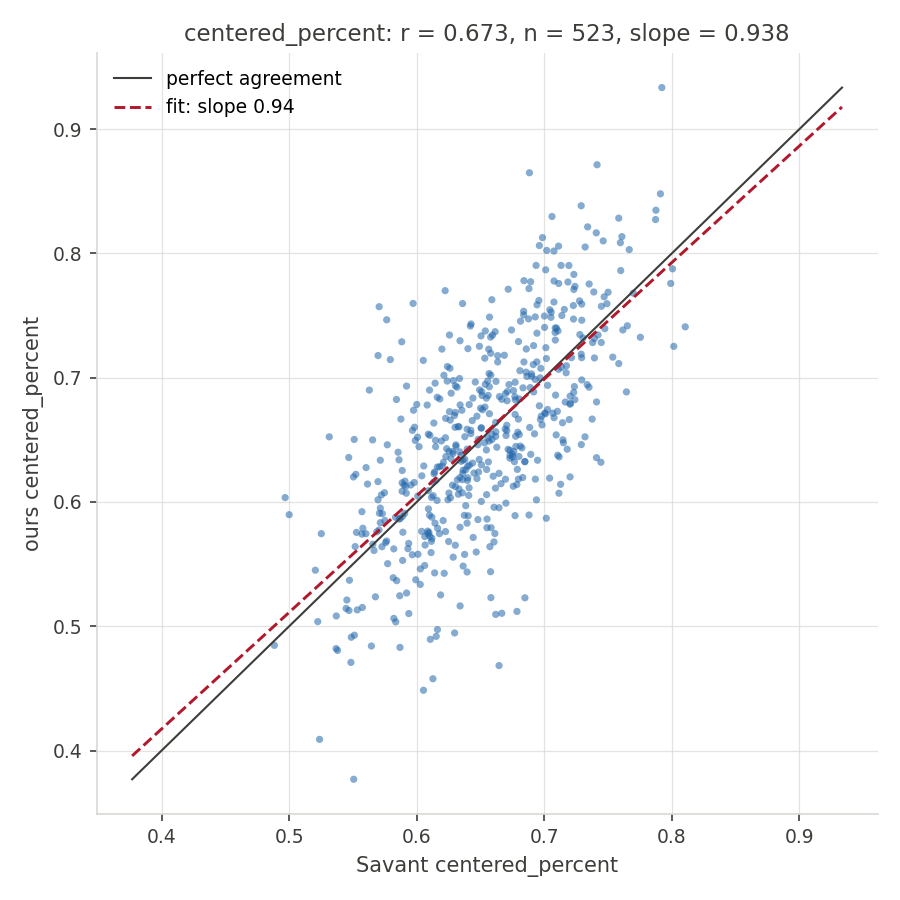
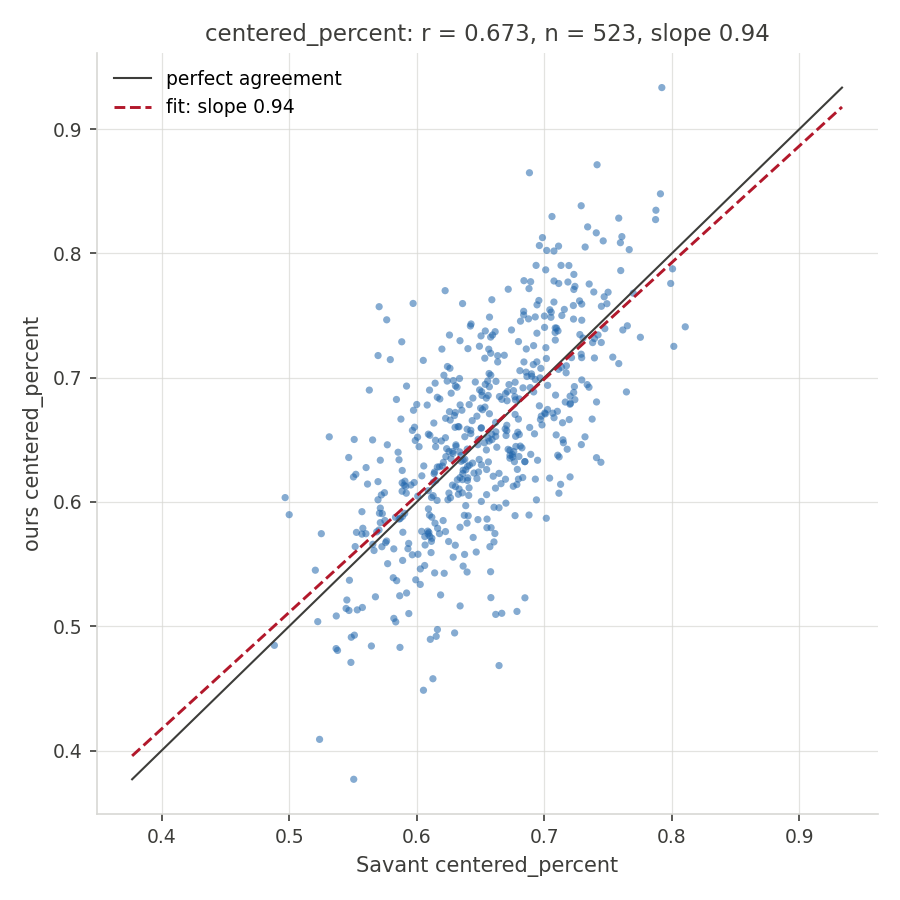
The tails figure shipped three panels with two of them blank
It filtered to the one axis whose formula was recovered, so x and z rendered as
empty axes. The distinction is real but a blank panel reads as broken software,
not as a different kind of claim. All three draw now and the claim moved into
the title: y is a recovered formula (r 0.975), x and z are the best linear
candidate against the tails (r2 0.712 and 0.665) and are NOT what ships for
contact swings, which come from the collision inversion.

The caption also ran off both edges of the narrower figure and two titles lost
their slope value, which only shows once the file is opened. It wraps now and
the save is tight.

New: the y panel and the x/z panels publish separately, and a rate-scatter grid
puts all three category rates on one figure. That grid earns itself on sight,
the three pitcher rates sit at r 0.917, 0.824 and 0.754, so any single one of
them misrepresents the other two.

Changed region(s): [[0.2178, 0.0311, 0.8711, 0.0622]]

diff --git a/cp_lib/plots.py b/cp_lib/plots.py
@@ -174,12 +174,16 @@ def _ols(x: pd.Series, y: pd.Series):
     return float(slope), float(intercept)
 
 
-def rate_scatter(ours: pd.DataFrame, sav: pd.DataFrame, rate: str, out_png: Path,
-                 min_swings=100) -> Path:
+def _rate_panel(ax, ours: pd.DataFrame, sav: pd.DataFrame, rate: str, min_swings=100):
+    """One player-rate scatter against Savant's own. Shared by both callers.
+
+    Extracted so the single figure and the grid cannot drift apart: the slope
+    below 1 that this draws is a headline result, and two copies of the drawing
+    is two places for it to be computed differently.
+    """
     m = ours.merge(sav, on="id", suffixes=("_ours", "_sav"))
     swings = "n_swings_sav" if "n_swings_sav" in m else "n_swings"
     m = m[m[swings] >= min_swings]
-    fig, ax = plt.subplots(figsize=(6, 6))
     _dress(ax)
     ax.scatter(m[f"{rate}_sav"], m[f"{rate}_ours"], s=12, alpha=0.55, color=POS,
                edgecolors="none", zorder=3)
@@ -196,9 +200,16 @@ def rate_scatter(ours: pd.DataFrame, sav: pd.DataFrame, rate: str, out_png: Path
     r = m[f"{rate}_sav"].corr(m[f"{rate}_ours"])
     title = f"{rate}: r = {r:.3f}, n = {len(m)}"
     if slope is not None:
-        title += f", slope = {slope:.3f}"
+        title += f", slope {slope:.2f}"
     ax.set_title(title, fontsize=11, color=INK)
     ax.legend(frameon=False, fontsize=9)
+    return m
+
+
+def rate_scatter(ours: pd.DataFrame, sav: pd.DataFrame, rate: str, out_png: Path,
+                 min_swings=100) -> Path:
+    fig, ax = plt.subplots(figsize=(6, 6))
+    _rate_panel(ax, ours, sav, rate, min_swings)
     out_png = Path(out_png)
     out_png.parent.mkdir(parents=True, exist_ok=True)
     fig.tight_layout()
@@ -770,10 +781,58 @@ def league_bins_figure(table: pd.DataFrame, out_png: Path, min_n=100) -> Path:
     return out_png
 
 
-def tails_scatter(pred: dict, truth: dict, out_png: Path, caveat: str) -> Path:
-    """Our reconstructed value against Savant's, on the labeled whiff tails."""
-    fig, axs = plt.subplots(1, 3, figsize=(18, 6))
-    for ax, axis in zip(axs, ("x", "y", "z")):
+STATUS_NOTE = {"recovered": "recovered formula",
+               "fallback": "best linear candidate"}
+
+
+def tails_title(axis, status, r, n, slope=None):
+    """The panel title, as a pure function so a test can read it.
+
+    The status word is the whole point of the title: without it, a reader takes
+    the x panel's r for the same kind of claim as y's, and it is not. Pulled out
+    of the drawing so the wording is pinned by a test rather than by eye.
+    """
+    note = STATUS_NOTE.get(status, "")
+    t = (f"axis {axis}" + (f" ({note})" if note else "")
+         + f": r = {r:.3f}, r2 = {r * r:.3f}, n = {int(n)}")
+    return t + (f", slope {slope:.2f}" if slope is not None else "")
+
+
+def rate_scatter_grid(ours: pd.DataFrame, sav: pd.DataFrame, rates, out_png: Path,
+                      title: str, min_swings=100) -> Path:
+    """Every category rate on one figure, because one of three proves nothing.
+
+    A single scatter invites the reader to assume the other two look like it.
+    They do not: the three rates sit at different correlations, and a grid is
+    the only honest way to show that in one image.
+    """
+    rates = tuple(rates)
+    fig, axs = plt.subplots(1, len(rates), figsize=(6 * len(rates), 6.2), squeeze=False)
+    for ax, rate in zip(axs[0], rates):
+        _rate_panel(ax, ours, sav, rate, min_swings)
+    fig.suptitle(title, fontsize=13, color=INK)
+    fig.tight_layout()
+    out_png = Path(out_png)
+    out_png.parent.mkdir(parents=True, exist_ok=True)
+    fig.savefig(out_png, dpi=DPI, facecolor="white", bbox_inches="tight")
+    plt.close(fig)
+    return out_png
+
+
+def tails_scatter(pred: dict, truth: dict, out_png: Path, caveat: str,
+                  axes=("x", "y", "z"), status=None) -> Path:
+    """Our reconstructed value against Savant's, on the labeled whiff tails.
+
+    `axes` picks which panels to draw, because the three do not carry the same
+    claim and are worth showing apart. `status` names that claim in the title:
+    y is a recovered formula that reproduces Savant, while x and z are the best
+    linear candidate against the tails and NOT what ships for contact swings,
+    which come from the collision inversion instead. Drawing them unlabelled
+    would read as if all three were the same kind of result.
+    """
+    axes = tuple(axes)
+    fig, axs = plt.subplots(1, len(axes), figsize=(6 * len(axes), 6), squeeze=False)
+    for ax, axis in zip(axs[0], axes):
         p, t = np.asarray(pred[axis], float), np.asarray(truth[axis], float)
         ok = np.isfinite(p) & np.isfinite(t)
         _dress(ax)
@@ -784,20 +843,26 @@ def tails_scatter(pred: dict, truth: dict, out_png: Path, caveat: str) -> Path:
             ax.plot([lo, hi], [lo, hi], color=INK, lw=1.0, zorder=4, label="perfect agreement")
             r = float(np.corrcoef(t[ok], p[ok])[0, 1])
             slope, intercept = _ols(pd.Series(t[ok]), pd.Series(p[ok]))
-            title = f"axis {axis}: r = {r:.3f}, n = {int(ok.sum())}"
+            title = tails_title(axis, (status or {}).get(axis), r, int(ok.sum()))
             if slope is not None:
                 ax.plot([lo, hi], [intercept + slope * lo, intercept + slope * hi],
                         color=NEG, lw=1.4, ls="--", zorder=5,
                         label=f"fit: slope {slope:.2f}")
-                title += f", slope = {slope:.3f}"
-            ax.set_title(title, fontsize=11, color=INK)
+                title = tails_title(axis, (status or {}).get(axis), r,
+                                    int(ok.sum()), slope)
+            ax.set_title(title, fontsize=10, color=INK)
             ax.legend(frameon=False, fontsize=9)
         ax.set_xlabel(f"Savant sav_{axis}", color=INK)
         ax.set_ylabel(f"ours {axis}_hat", color=INK)
-    fig.suptitle(caveat, fontsize=10, color=INK)
+    # Wrapped to the figure's own width and saved tight. A one-line caveat ran
+    # off both edges of the narrower one and two panel titles lost their slope,
+    # which is the kind of clipping that only shows up once the file is opened.
+    import textwrap
+    fig.suptitle("\n".join(textwrap.wrap(caveat, width=22 * len(axes) + 40)),
+                 fontsize=10, color=INK)
     fig.tight_layout()
     out_png = Path(out_png)
     out_png.parent.mkdir(parents=True, exist_ok=True)
-    fig.savefig(out_png, dpi=150, facecolor="white")
+    fig.savefig(out_png, dpi=150, facecolor="white", bbox_inches="tight")
     plt.close(fig)
     return out_png

diff --git a/tests/test_contact_point_plots.py b/tests/test_contact_point_plots.py
@@ -818,3 +818,67 @@ def test_each_savant_threshold_is_named_with_the_word_savant_uses():
             assert plots.MID_NAME[axis] in text, (a, b, axis, text)
             assert f"{plots.THRESH[axis]:g} {plots.AXIS_UNIT[axis]}" in text, (axis, text)
         plt.close(fig)
+
+
+def test_every_tails_panel_asked_for_actually_draws(tmp_path):
+    """Filtering to status == "recovered" shipped a 3-panel figure with 2 blank.
+
+    A blank panel reads as broken, not as the deliberate distinction it was.
+    The panel count follows `axes`, and every panel carries its points.
+    """
+    import matplotlib.pyplot as plt
+    rng = np.random.default_rng(7)
+    t = {a: rng.normal(0, 5, 400) for a in ("x", "y", "z")}
+    pred = {a: t[a] * 0.9 + rng.normal(0, 1, 400) for a in ("x", "y", "z")}
+    from PIL import Image
+    widths = {}
+    for axes in (("y",), ("x", "z"), ("x", "y", "z")):
+        before = plt.get_fignums()
+        out = plots.tails_scatter(pred, t, tmp_path / f"t{len(axes)}.png", "c",
+                                  axes=axes, status={a: "fallback" for a in axes})
+        assert out.exists() and out.stat().st_size > 5000, axes
+        assert plt.get_fignums() == before, "a figure was left open"
+        widths[len(axes)] = Image.open(out).size[0]
+    # The panel count is the thing under test, and only the drawn width shows
+    # it once the figure is closed. Each panel is the same 6 in wide, so the
+    # image width has to scale with the count. Asserting the file merely exists
+    # passes happily when `axes` is ignored and three panels are always drawn.
+    assert widths[1] < widths[2] < widths[3], widths
+    for n in (2, 3):
+        assert abs(widths[n] / widths[1] - n) < 0.25, (n, widths)
+
+
+def test_the_tails_title_says_which_claim_each_panel_makes():
+    """y is a recovered formula. x and z are the best linear candidate and are
+    NOT what ships for contact swings. Unlabelled, the reader reads one claim."""
+    rec = plots.tails_title("y", "recovered", 0.975, 21328, 0.951)
+    fall = plots.tails_title("x", "fallback", 0.844, 21328)
+    assert "recovered formula" in rec and "best linear candidate" in fall
+    assert "recovered" not in fall, "a modeled axis claimed a recovered formula"
+    assert "0.951" in rec and "r2 = 0.712" in fall, (rec, fall)
+    bare = plots.tails_title("x", None, 0.844, 10)
+    assert "(" not in bare, bare
+
+
+def test_the_rate_grid_and_the_single_scatter_share_one_drawing():
+    """Two copies of the drawing is two places for the slope to be computed
+    differently, and that slope below 1 is a headline result."""
+    import inspect
+    single = inspect.getsource(plots.rate_scatter)
+    grid = inspect.getsource(plots.rate_scatter_grid)
+    assert "_rate_panel" in single and "_rate_panel" in grid
+    assert "ax.scatter" not in single and "ax.scatter" not in grid
+
+
+def test_the_rate_grid_draws_one_panel_per_rate(tmp_path):
+    import matplotlib.pyplot as plt
+    rng = np.random.default_rng(11)
+    rates = ("on_time_percent", "centered_percent", "lined_up_percent")
+    ours = pd.DataFrame({"id": np.arange(300), "n_swings": 200,
+                         **{r: rng.uniform(0.4, 0.8, 300) for r in rates}})
+    sav = pd.DataFrame({"id": np.arange(300), "n_swings": 200,
+                        **{r: rng.uniform(0.4, 0.8, 300) for r in rates}})
+    before = plt.get_fignums()
+    out = plots.rate_scatter_grid(ours, sav, rates, tmp_path / "g.png", "t")
+    assert out.exists() and out.stat().st_size > 5000
+    assert plt.get_fignums() == before, "a figure was left open"

diff --git a/build_notebook.py b/build_notebook.py
@@ -430,15 +430,29 @@ print(f"\\ninversion rows past the curve's last published point: {int(_past)} "
 
 TAILS_CODE = '''# 6. The tails themselves: our value against Savant's, on the labeled whiffs.
 tf = traits.tails_features(FIT, Y_COM, TILT)
+# All three panels draw. Filtering to status == "recovered" left x and z blank,
+# which read as a broken figure rather than as the deliberate distinction it was.
+# The distinction is real and belongs in the TITLE: y is a recovered formula, and
+# x and z are the best linear candidate against the tails, not what ships for
+# contact swings, which come from the collision inversion instead.
 tl = pd.DataFrame({ax: discover.apply(
     discover.CandidateResult(**{k: v for k, v in disc["verdicts"][ax]["best"].items()}), tf)
-    for ax in ("x", "y", "z") if disc["verdicts"][ax]["status"] == "recovered"})
+    for ax in ("x", "y", "z")})
+status = {ax: disc["verdicts"][ax]["status"] for ax in ("x", "y", "z")}
 caveat = ("Savant's tails are the ten worst whiffs per list per player-season, selected on "
           "the label. This is the population the formulas were read off, and it is not a "
           "random sample of swings: agreement here is a form check, not a generalization check.")
 pred = {ax: (tl[ax] if ax in tl else np.full(len(tf), np.nan)) for ax in ("x", "y", "z")}
 truth = {ax: tf[f"sav_{ax}"].to_numpy() for ax in ("x", "y", "z")}
-p = plots.tails_scatter(pred, truth, FIGURES / "tails_scatter_2025.png", caveat)
+p = plots.tails_scatter(pred, truth, FIGURES / "tails_scatter_2025.png", caveat,
+                        status=status)
+print(p)
+display(Image(filename=str(p)))
+p = plots.tails_scatter(pred, truth, FIGURES / "tails_scatter_y_2025.png", caveat,
+                        axes=("y",), status=status)
+print(p)
+p = plots.tails_scatter(pred, truth, FIGURES / "tails_scatter_xz_2025.png", caveat,
+                        axes=("x", "z"), status=status)
 print(caveat)
 display(Image(filename=str(p)))
 '''
@@ -515,11 +529,18 @@ CLOUD_HTML = plots.cloud3d_html(
 print("interactive:", CLOUD_HTML)
 
 figs.append(plots.league_bins_figure(BINS_TABLE, FIGURES / "league_bins_2025.png"))
+RATES = ("on_time_percent", "centered_percent", "lined_up_percent")
 for kind in ("pitcher", "batter"):
     ours = validate.player_rates(DF[FIT], CATS[FIT], kind, CAL[FIT])
-    for rate in ("on_time_percent", "centered_percent", "lined_up_percent"):
-        figs.append(plots.rate_scatter(ours, validate.savant_rates(FIT, kind), rate,
+    sav = validate.savant_rates(FIT, kind)
+    for rate in RATES:
+        figs.append(plots.rate_scatter(ours, sav, rate,
                                        FIGURES / f"scatter_{kind}_{rate}.png"))
+    # All three on one figure: a single rate invites the reader to assume the
+    # other two look like it, and they sit at different correlations.
+    figs.append(plots.rate_scatter_grid(
+        ours, sav, RATES, FIGURES / f"scatter_grid_{kind}.png",
+        f"Per-{kind} category rates against Savant's leaderboard, {FIT}"))
 for p in figs:
     print(p)
     display(Image(filename=str(p)))

diff --git a/README.md b/README.md
@@ -228,7 +228,7 @@ its tables and printed output while the PNGs ship separately in `figures/`.
 
 The scrape throttles to about one request per second and runs roughly 3,000
 requests per season, so budget an hour per season on the first run. Seven tests
-skip without the cached data; the other 127 run standalone.
+skip without the cached data; the other 131 run standalone.
 
 ## Limits
 
